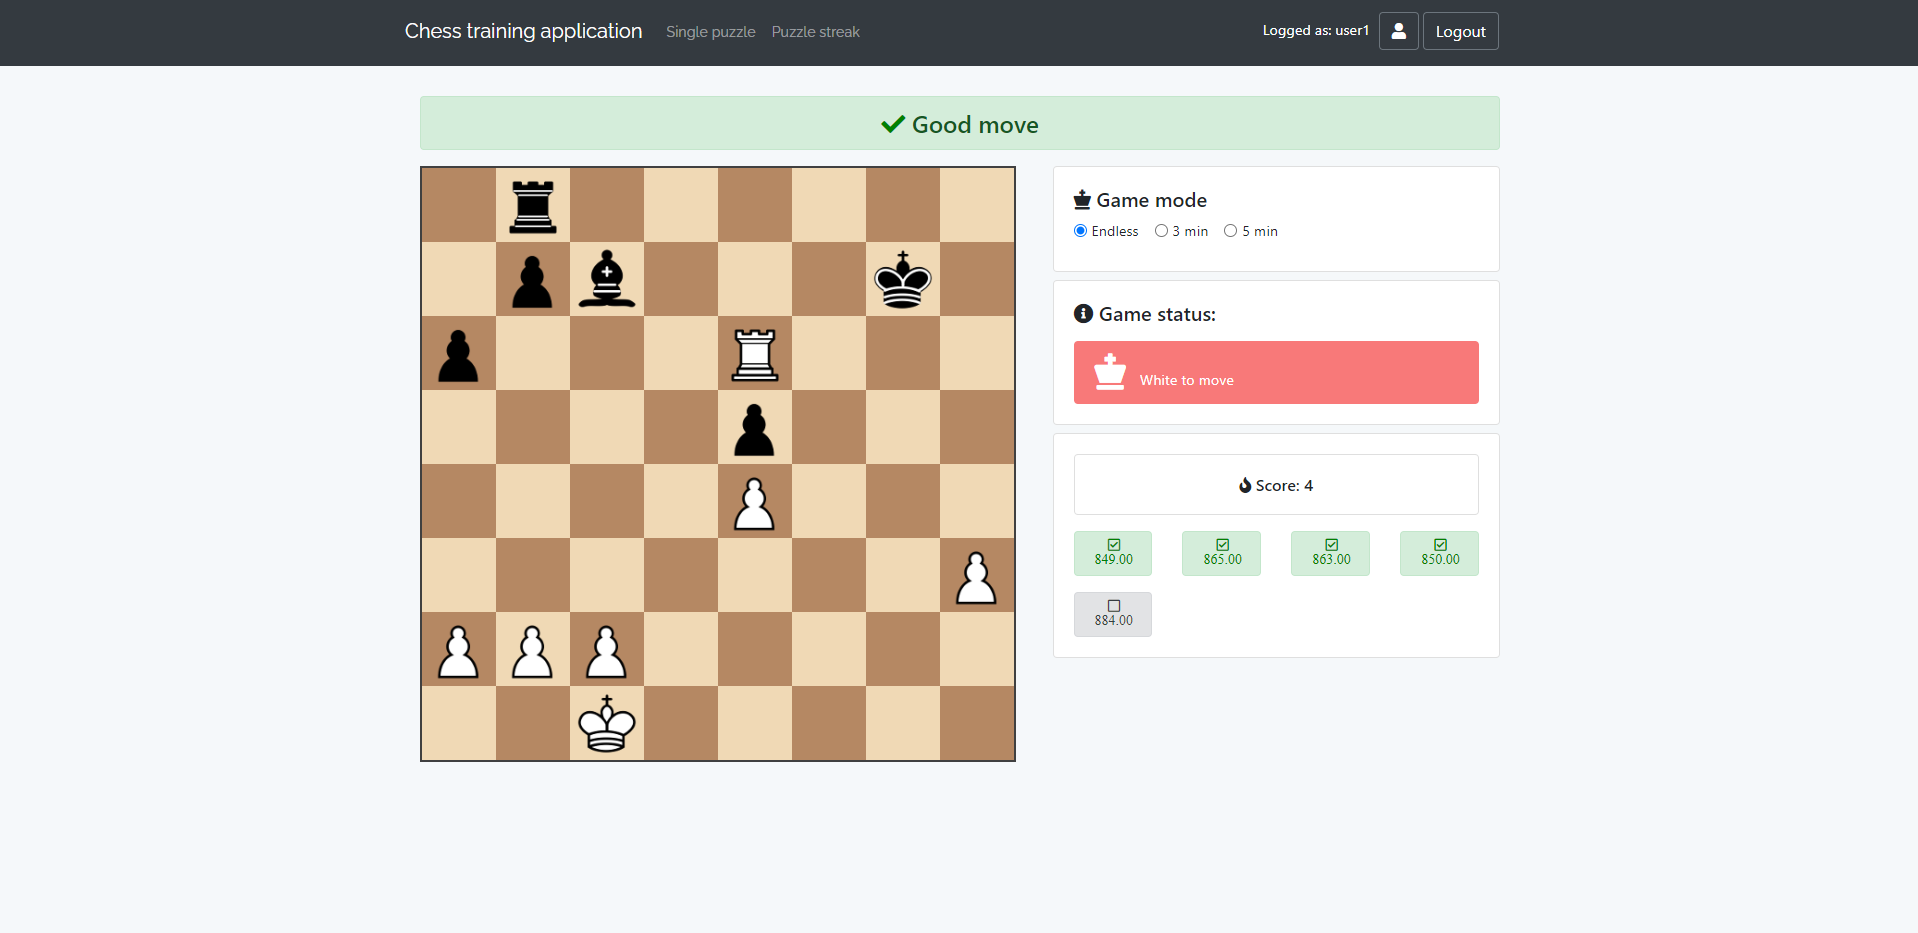
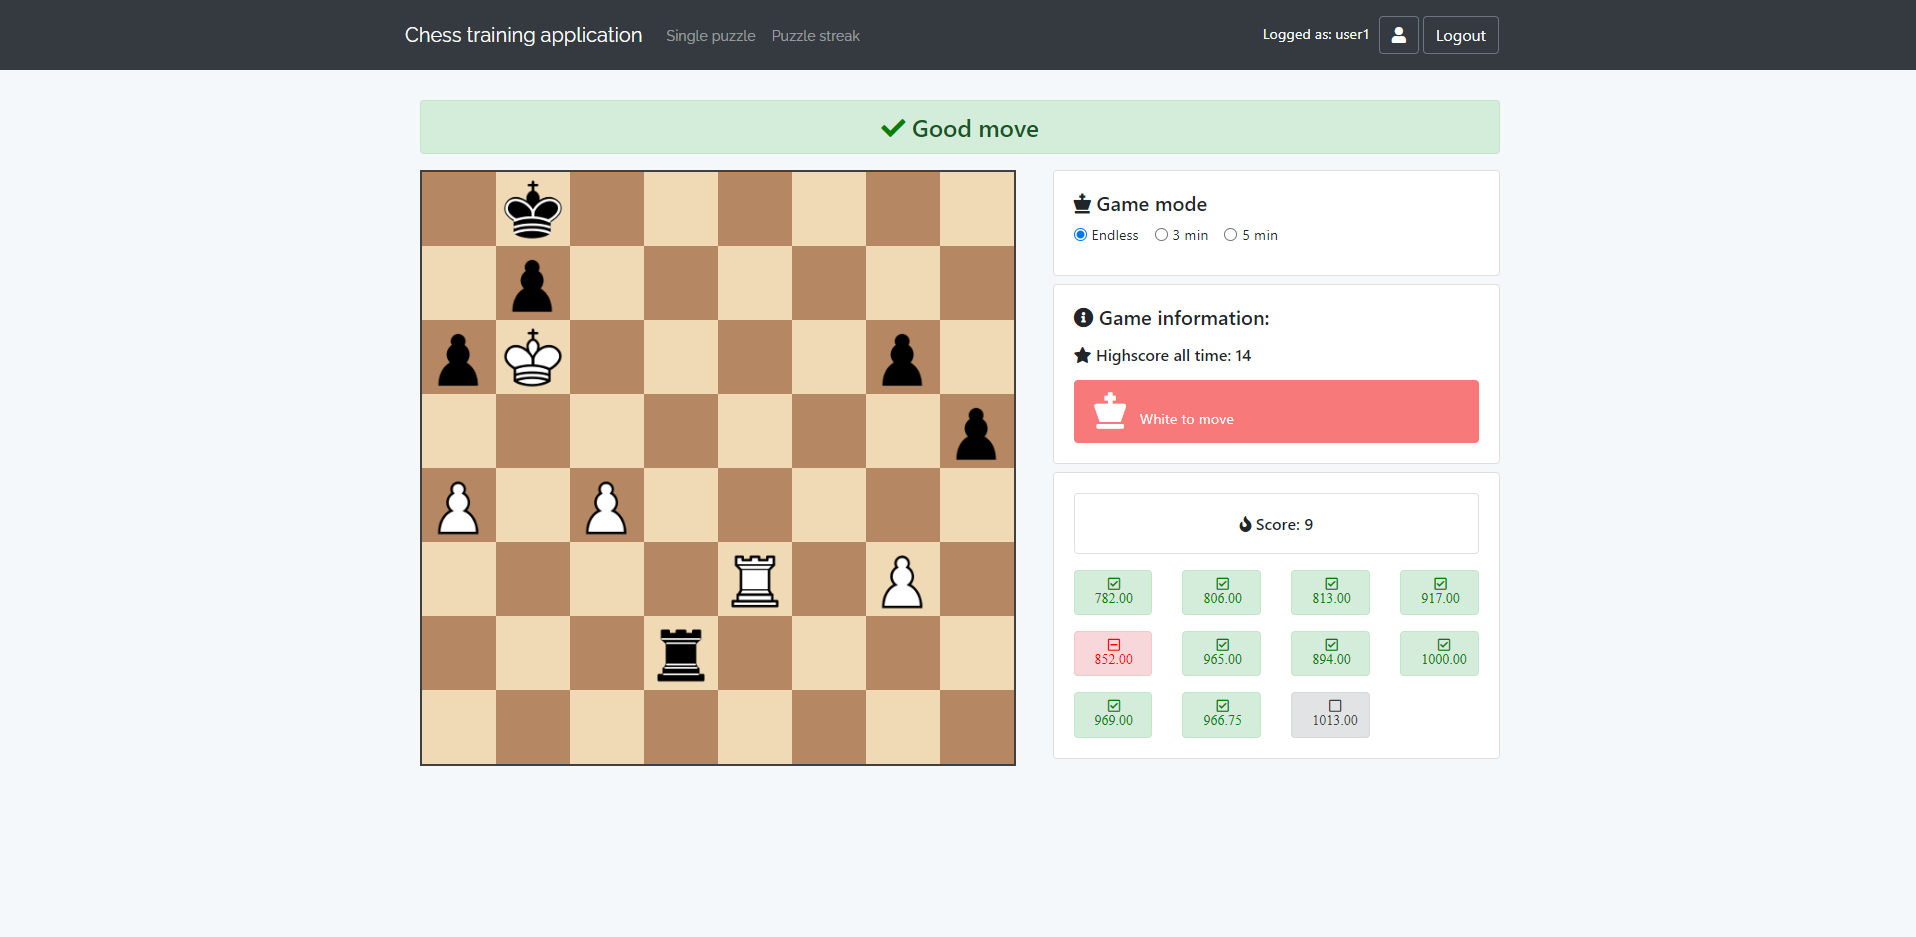
- added highscores for puzzle-streak

diff --git a/assets/js/store/store.js b/assets/js/store/store.js
@@ -2,6 +2,7 @@ import Chess from "../lib/chess";
 import Vue from 'vue';
 import Vuex from 'vuex'
 import * as MyFn from "../modules/functions";
+import * as apiCalls from "../modules/ajaxCalls";
 
 Vue.use(Vuex)
 
@@ -47,6 +48,7 @@ const store = new Vuex.Store({
         showEndStreakDialog: false,
         finalStreakScore: 0,
         highestSolvedPuzzleRanking: 0,
+        highScoreUserAllTime: 0,
         timerStreak: 0,
         timerEnabled: false,
         badPuzzleCounter: 0
@@ -99,6 +101,7 @@ const store = new Vuex.Store({
         timerStreak: state => state.timerStreak,
         timerEnabled: state => state.timerEnabled,
         badPuzzleCounter: state => state.badPuzzleCounter,
+        highScoreUserAllTime: state => state.highScoreUserAllTime,
         getPuzzleElapsedTime: state => {
             var timeDiff = state.puzzleTimeStop - state.puzzleTimeStart; //in ms
             // strip the ms
@@ -271,7 +274,10 @@ const store = new Vuex.Store({
         },
         resetBadPuzzleCounter(state) {
             state.badPuzzleCounter = 0;
-        }
+        },
+        setHighScoreUserAllTime(state, highscore) {
+            state.highScoreUserAllTime = highscore;
+        },
     },
     actions: {
         changeBoardColor(state, theme) {
@@ -489,6 +495,19 @@ const store = new Vuex.Store({
             })
 
             state.dispatch('makeFirstMove');
+        },
+        getUserInformation(state) {
+            apiCalls.getUserInformation();
+        },
+        checkIfNewScoreHigherThanOld(state) {
+            let oldScore = state.getters.highScoreUserAllTime;
+            let newScore = state.getters.finalStreakScore;
+
+            if (newScore > oldScore) {
+                store.commit('setHighScoreUserAllTime', newScore);
+
+                apiCalls.saveInformationUser(state.getters.userId, newScore);
+            }
         }
     }
 })

diff --git a/assets/js/modules/ajaxCalls.js b/assets/js/modules/ajaxCalls.js
@@ -93,6 +93,26 @@ export function getPuzzleHistoryUser() {
         .catch(error => console.log(error));
 }
 
+export async function getUserInformation() {
+    axios.get(Routing.generate('api_get_user_info', {id: store.getters.userId} ))
+        .then(response => {
+            store.commit('setHighScoreUserAllTime', response.data.highScoreAllTime);
+        })
+        .catch(error => console.log(error));
+}
+
+export function saveInformationUser(userId, highscore) {
+    return axios.put(Routing.generate('api_put_user_info'), {
+        userId:userId,
+        highscore:highscore
+    })
+        .then(response => {
+            return response;
+        })
+        .catch(error => console.log(error))
+        .finally();
+}
+
 export async function fetchNewDataForGraph() {
     var userRankingHistory = await fetch(Routing.generate('api_get_user_history_ranking', {id: store.getters.userId, limit:10} ));
     var historyJson = userRankingHistory.json();

diff --git a/assets/js/puzzle-streak.js b/assets/js/puzzle-streak.js
@@ -44,6 +44,9 @@ appMainComponent = new Vue({
         },
         puzzleRanking() {
             return store.getters.puzzleRankingValue;
+        },
+        highScoreAllTime() {
+            return store.getters.highScoreUserAllTime;
         }
     },
     watch: {
@@ -57,6 +60,8 @@ appMainComponent = new Vue({
     },
     created: function () {
         store.commit('setGameMode', 1);
+
+        store.dispatch('getUserInformation');
     },
     mounted: function () {
 

diff --git a/assets/js/modules/functions.js b/assets/js/modules/functions.js
@@ -319,6 +319,8 @@ export async function checkPlayerSolution(playerMove, solutionMove) {
                 store.commit('changeCfgDraggable', false);
                 store.commit('resetBadPuzzleCounter');
                 store.commit('showEndStreakModal');
+
+                store.dispatch('checkIfNewScoreHigherThanOld');
             }
             else
             {

diff --git a/src/AppBundle/Controller/Api/UserController.php b/src/AppBundle/Controller/Api/UserController.php
@@ -35,4 +35,46 @@ class UserController extends AbstractFOSRestController
         $updatedUser = $this->userService->updateUserRanking($user, $newPlayerRating);
         return View::create($updatedUser, Response::HTTP_OK);
     }
+
+    /**
+     * Retrieves an random chess position
+     * @Rest\Get("/user-info/", name="api_get_user_info", options={"expose"=true})
+     * @param Request $request
+     * @return View
+     */
+    public function getUserData(Request $request) : View
+    {
+        $userId = $request->get('id');
+        $user = $this->userService->getUserById($userId);
+
+        $array = [
+            'highScoreAllTime' => $user->getHighScoreAllTime(),
+            'status' => 'Ok',
+            'message' => 'Success'
+        ];
+
+        return View::create($array, Response::HTTP_OK);
+    }
+
+    /**
+     * Retrieves an random chess position
+     * @Rest\Put("/user-info/", name="api_put_user_info", options={"expose"=true})
+     * @param Request $request
+     * @return View
+     */
+    public function putUserData(Request $request) : View
+    {
+        $userId = $request->get('userId');
+        $highscoreAllTime = $request->get('highscore');
+        $user = $this->userService->getUserById($userId);
+
+       $this->userService->updateUserHighscore($user, $highscoreAllTime);
+
+        $array = [
+            'status' => 'Ok',
+            'message' => 'Success'
+        ];
+
+        return View::create($array, Response::HTTP_OK);
+    }
 }

diff --git a/app/DoctrineMigrations/Version20210416172108.php b/app/DoctrineMigrations/Version20210416172108.php
@@ -1,0 +1,28 @@
+<?php declare(strict_types=1);
+
+namespace Application\Migrations;
+
+use Doctrine\DBAL\Schema\Schema;
+use Doctrine\Migrations\AbstractMigration;
+
+/**
+ * Auto-generated Migration: Please modify to your needs!
+ */
+final class Version20210416172108 extends AbstractMigration
+{
+    public function up(Schema $schema) : void
+    {
+        // this up() migration is auto-generated, please modify it to your needs
+        $this->abortIf($this->connection->getDatabasePlatform()->getName() !== 'mysql', 'Migration can only be executed safely on \'mysql\'.');
+
+        $this->addSql('ALTER TABLE fos_user ADD high_score_all_time INT NOT NULL');
+    }
+
+    public function down(Schema $schema) : void
+    {
+        // this down() migration is auto-generated, please modify it to your needs
+        $this->abortIf($this->connection->getDatabasePlatform()->getName() !== 'mysql', 'Migration can only be executed safely on \'mysql\'.');
+
+        $this->addSql('ALTER TABLE fos_user DROP high_score_all_time');
+    }
+}

diff --git a/src/AppBundle/Entity/User.php b/src/AppBundle/Entity/User.php
@@ -34,6 +34,11 @@ class User extends BaseUser
      */
     protected $puzzlesFailed = 0;
 
+    /**
+     * @ORM\Column(type="integer")
+     */
+    protected $highScoreAllTime = 0;
+
     public function __construct()
     {
         parent::__construct();
@@ -90,5 +95,21 @@ class User extends BaseUser
     public function setPuzzlesFailed($puzzlesFailed)
     {
         $this->puzzlesFailed = $puzzlesFailed;
+    }
+
+    /**
+     * @return int
+     */
+    public function getHighScoreAllTime(): int
+    {
+        return $this->highScoreAllTime;
+    }
+
+    /**
+     * @param int $highScoreAllTime
+     */
+    public function setHighScoreAllTime(int $highScoreAllTime): void
+    {
+        $this->highScoreAllTime = $highScoreAllTime;
     }
 }

diff --git a/src/AppBundle/Repository/UserRepository.php b/src/AppBundle/Repository/UserRepository.php
@@ -46,5 +46,13 @@ class UserRepository extends EntityRepository
         $em->flush();
     }
 
+    public function updateUserHighScore(User $user, $highscore)
+    {
+        $em = $this->getEntityManager();
 
+        $user->setHighScoreAllTime($highscore);
+
+        $em->persist($user);
+        $em->flush();
+    }
 }

diff --git a/src/AppBundle/Service/UserService.php b/src/AppBundle/Service/UserService.php
@@ -34,4 +34,11 @@ class UserService
 
         return $updatedUser;
     }
+
+    public function updateUserHighscore(User $user, $highscore)
+    {
+        $updatedUser = $this->em->getRepository(User::class)->updateUserHighScore($user, $highscore);
+
+        return $updatedUser;
+    }
 }
